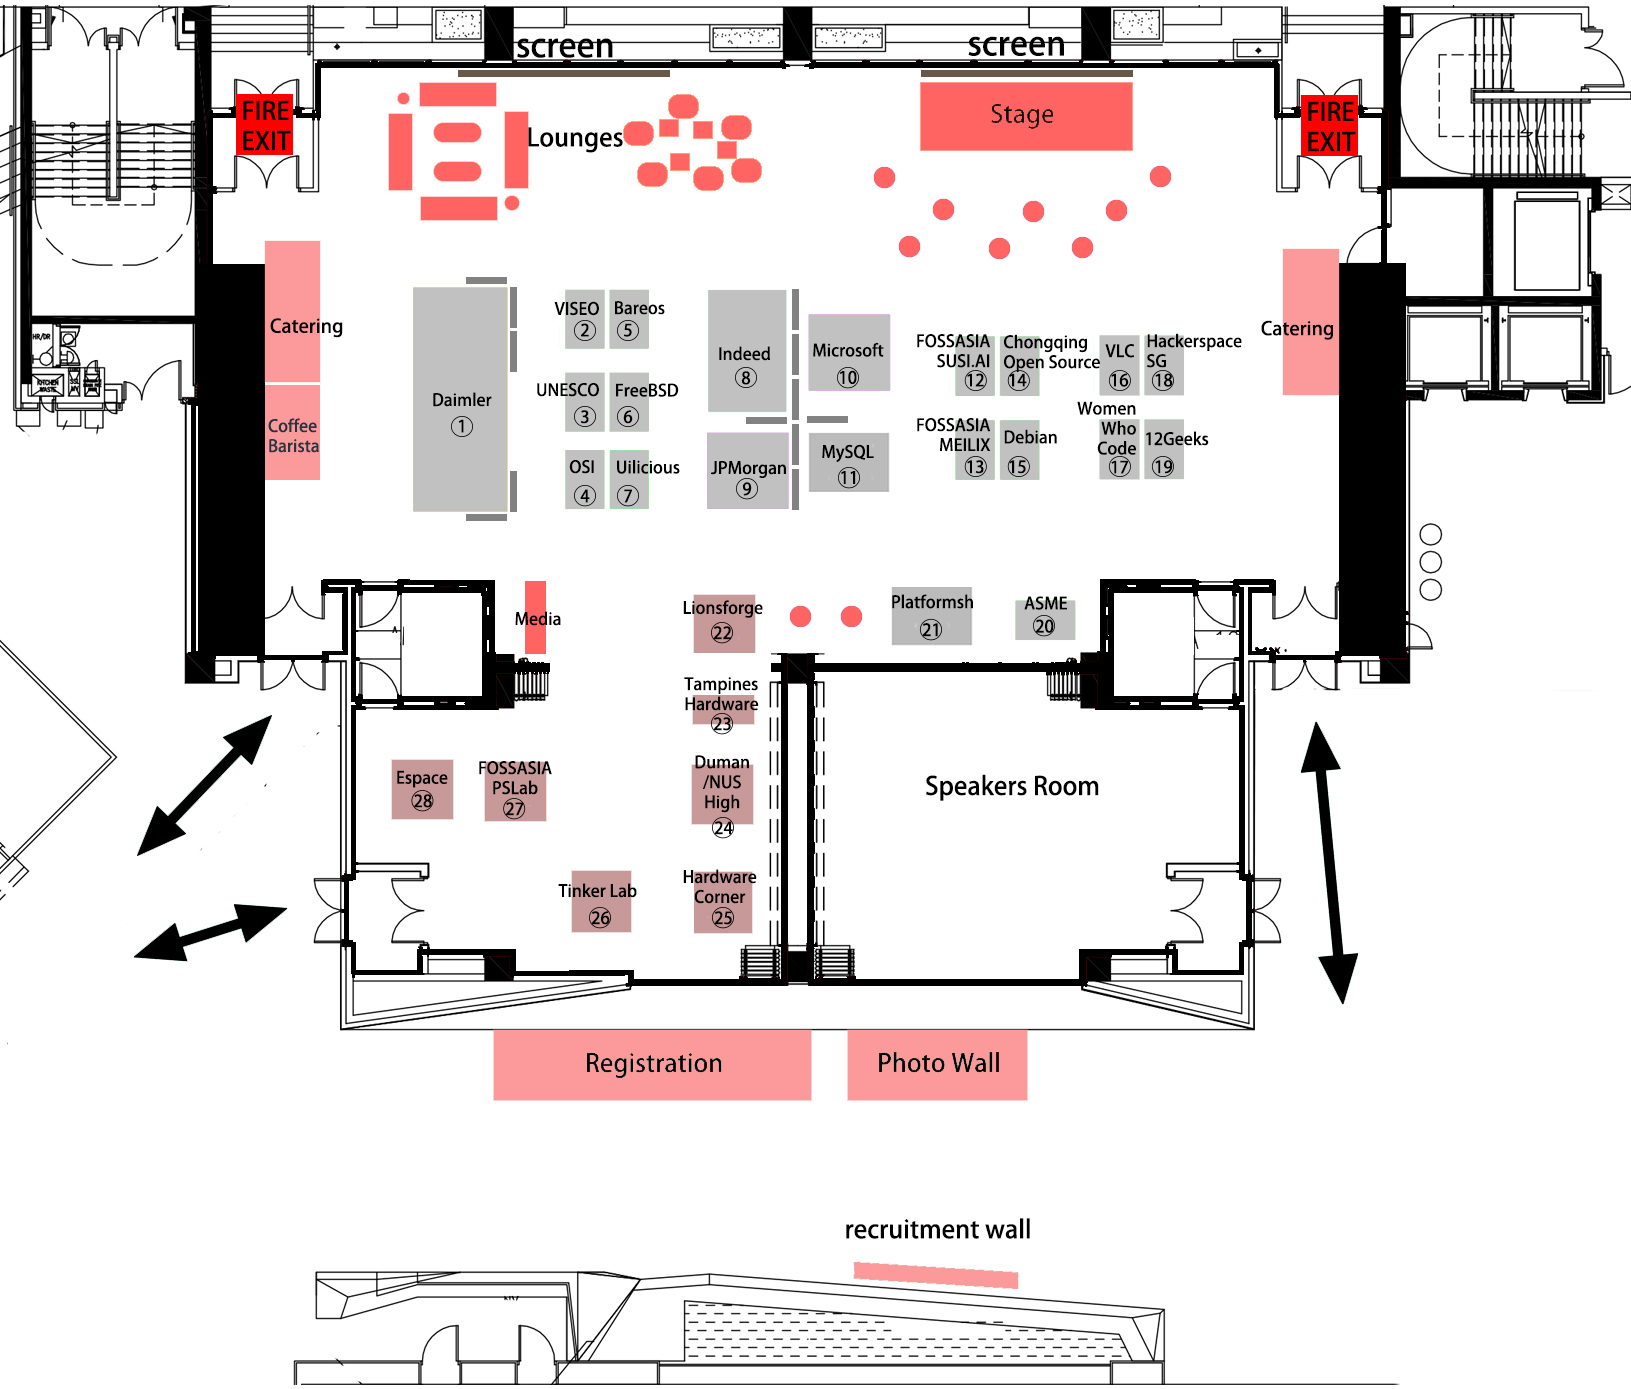
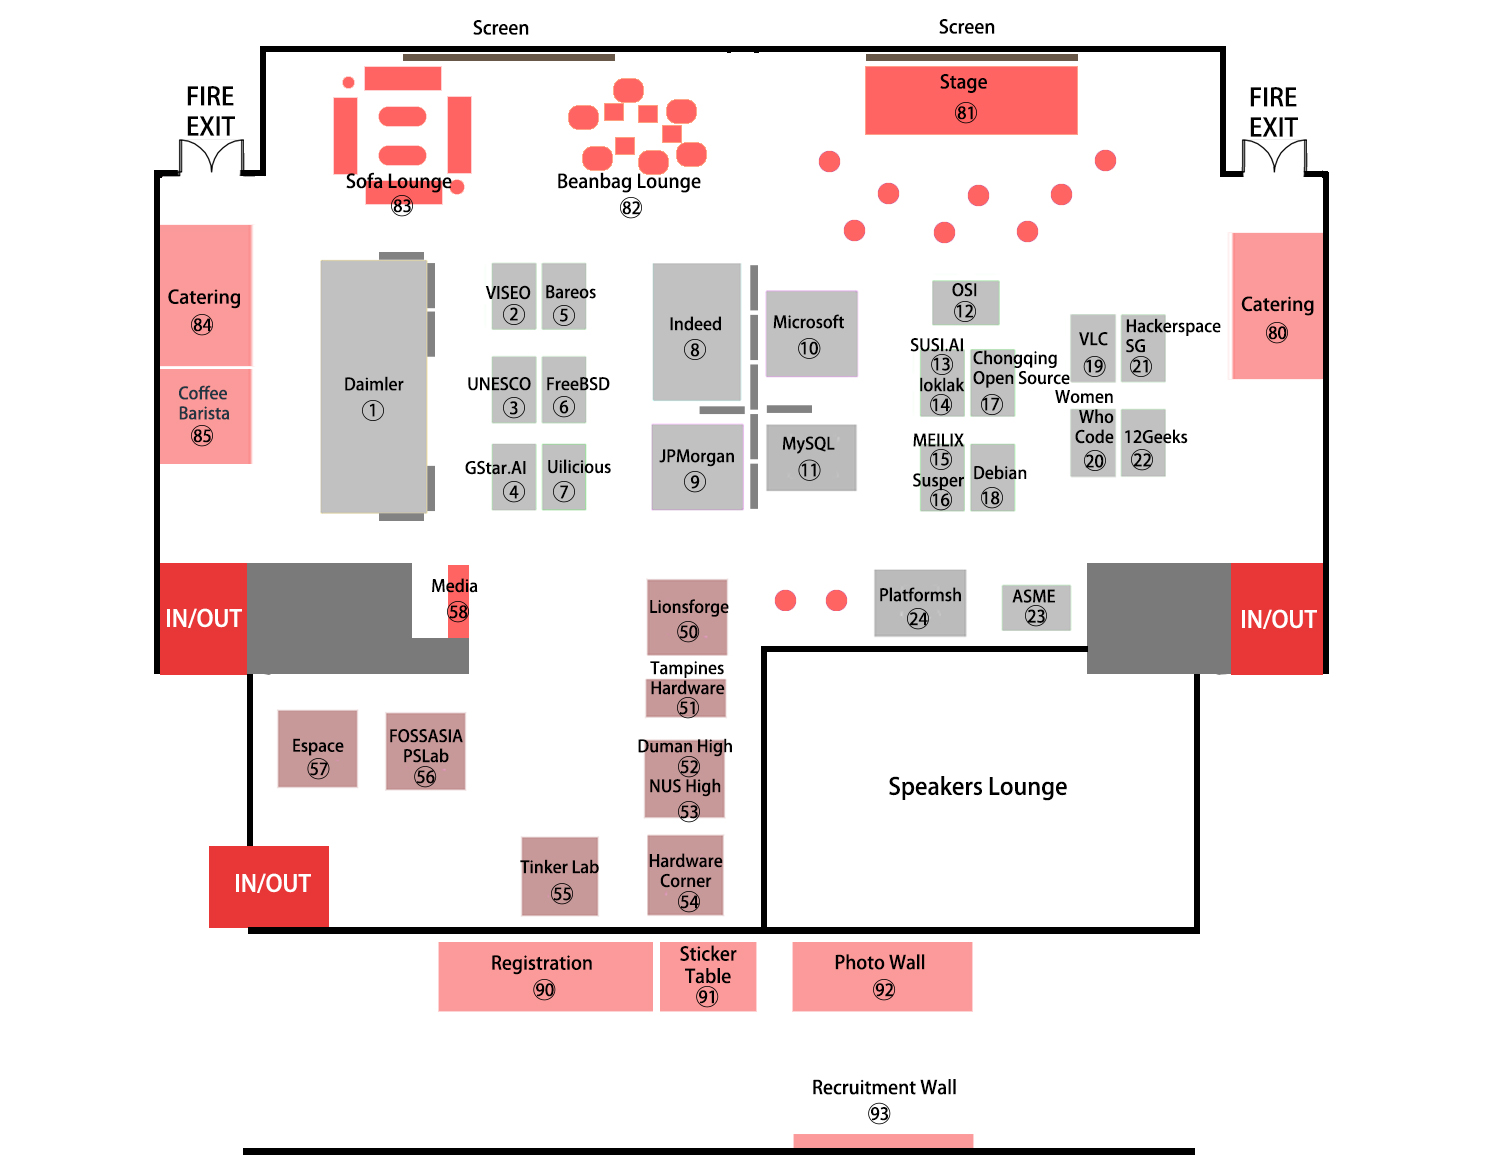
To fix #561 (#563)

diff --git a/exhibition/index.html b/exhibition/index.html
@@ -870,6 +870,27 @@
                                         <div class="bottom"></div>
                                     </div>
                                 </li>
+                                <li>
+                                    <div class="schedule-title">
+                                        <span class="time">Gstar Technologies</span>
+                                        <span class="title">AI Technologies for Trading<br></span>
+                                        <span class="title"><span>
+                                            <a target="default" href="https://gstar.ai">
+                                                <i class="icon fa fa-external-link"></i>
+                                            </a>
+                                        </span>
+                                    </div>
+
+                                    <div class="schedule-text">
+                                        <p>GStar Technologies aims to empower the masses to be able to use AI technologies in the fields of trading, thus leveling the playing field that had largely kept profitable trading out of reach of the masses. This further fuels the gig economy, where people can now earn a living based on their own terms, as traditional jobs gets disrupted in this new technological world.</p>
+                                    </div>
+
+                                    <div class="marker-pin">
+                                        <div class="top"></div>
+                                        <div class="middle"></div>
+                                        <div class="bottom"></div>
+                                    </div>
+                                </li>
 <li>
                                     <div class="schedule-title">
                                         <span class="time">Hackerspace</span>
